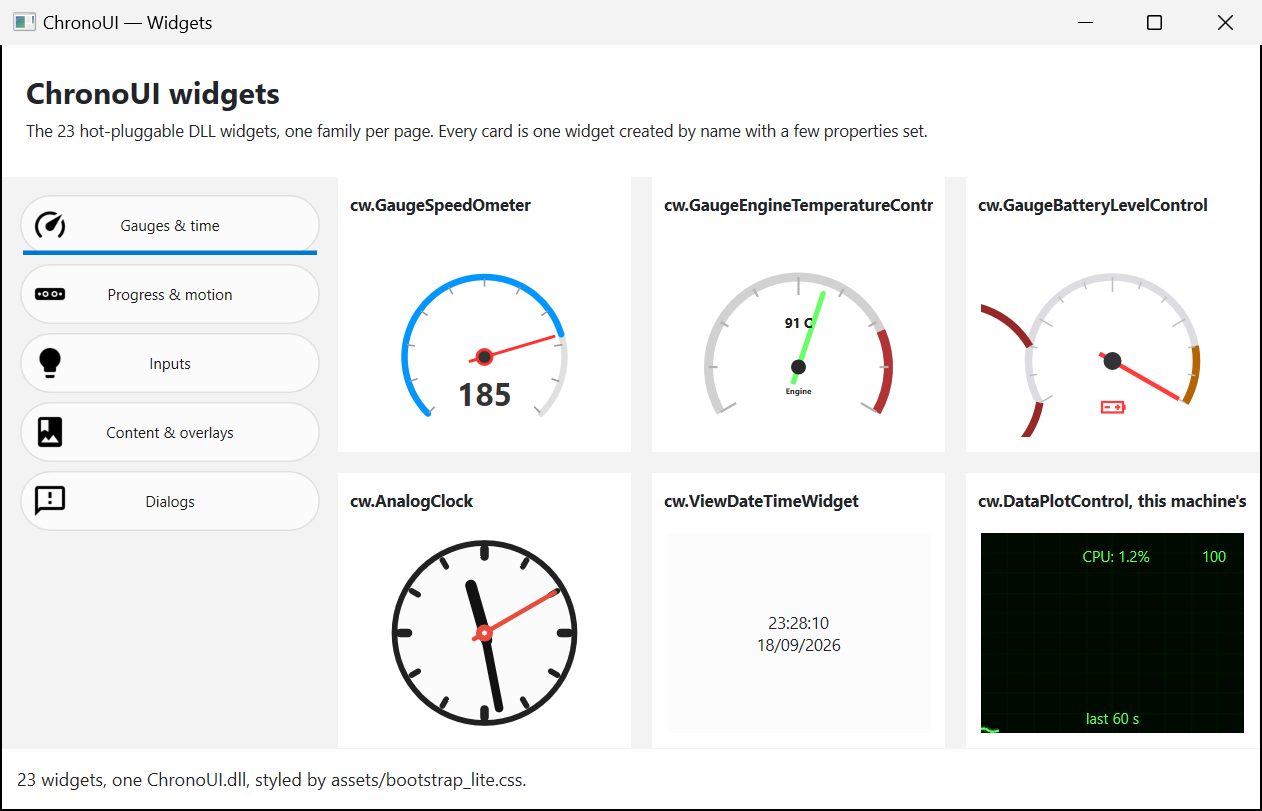
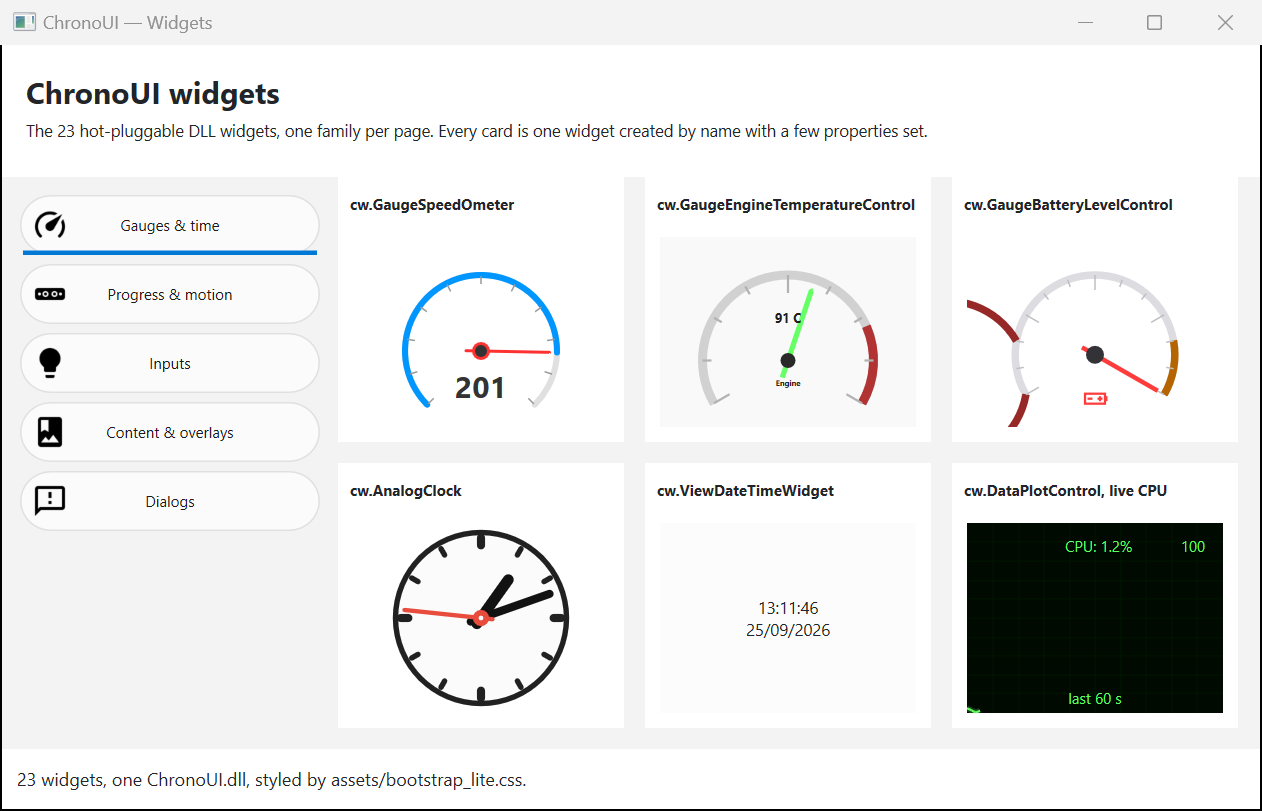
ChronoUIDemo: outer margin on the page grids; TextSlider centres its text once

diff --git a/src/examples/main.cpp b/src/examples/main.cpp
@@ -410,7 +410,7 @@ int WINAPI wWinMain(HINSTANCE, HINSTANCE, PWSTR cmdLine, int)
 	auto switchOn    = std::make_shared<ChronoObservable<bool>>(true);
 	auto waiting     = std::make_shared<ChronoObservable<bool>>(true);
 
-	const COLORREF kInk = RGB(17, 24, 39), kMuted = RGB(107, 114, 128), kBorder = RGB(229, 231, 235);
+	const COLORREF kInk = RGB(17, 24, 39), kMuted = RGB(107, 114, 128);
 	auto text = [&](const char* s, int size, bool bold, COLORREF col) {
 		IWidget* t = WidgetFactory::Create("cw.StaticText.dll");
 		t->SetProperty("title", s)->SetProperty("font-size", std::to_string(size).c_str())->SetProperty("text-align", "left");
@@ -462,7 +462,13 @@ int WINAPI wWinMain(HINSTANCE, HINSTANCE, PWSTR cmdLine, int)
 	auto addPage = [&](const char* title, const wchar_t* iconName, int rows, int cols) -> ILayout* {
 		IPanel* panel = CreateChronoPanel(win);
 		pages->AddWidget(panel);
-		ILayout* grid = panel->CreateLayout(rows, cols);
+		// The grid's gaps only run between cards; the outer margin comes from
+		// a padded 1x1 layout around it (see inset()).
+		ILayout* outer = panel->CreateLayout(1, 1);
+		outer->SetProperty("border-width", "0");
+		ICell* area = outer->GetCell(0, 0);
+		area->SetProperty("padding-right", "14"); area->SetProperty("padding-bottom", "14");
+		ILayout* grid = area->CreateLayout(rows, cols);
 		grid->SetProperty("border-width", "0");
 		grid->SetProperty("row-gap", "14"); grid->SetProperty("col-gap", "14");
 		int index = (int)nav.size();

diff --git a/src/widgets/cw.TextSlider.cpp b/src/widgets/cw.TextSlider.cpp
@@ -270,10 +270,12 @@ public:
 
 				// Draw Text
 				if (m_pTextLayout) {
-					// Offset the text vertically to center
+					// Centre the glyphs on the widget. The layout already centres its
+					// paragraph inside its own 50 px box (tm.top), so that offset is
+					// taken back out or the text lands on the bottom edge.
 					DWRITE_TEXT_METRICS tm;
 					m_pTextLayout->GetMetrics(&tm);
-					float textY = rect.top + (height - tm.height) / 2.0f;
+					float textY = rect.top + (height - tm.height) / 2.0f - tm.top;
 
 					pRT->DrawTextLayout(
 						D2D1::Point2F(currentX, textY),
